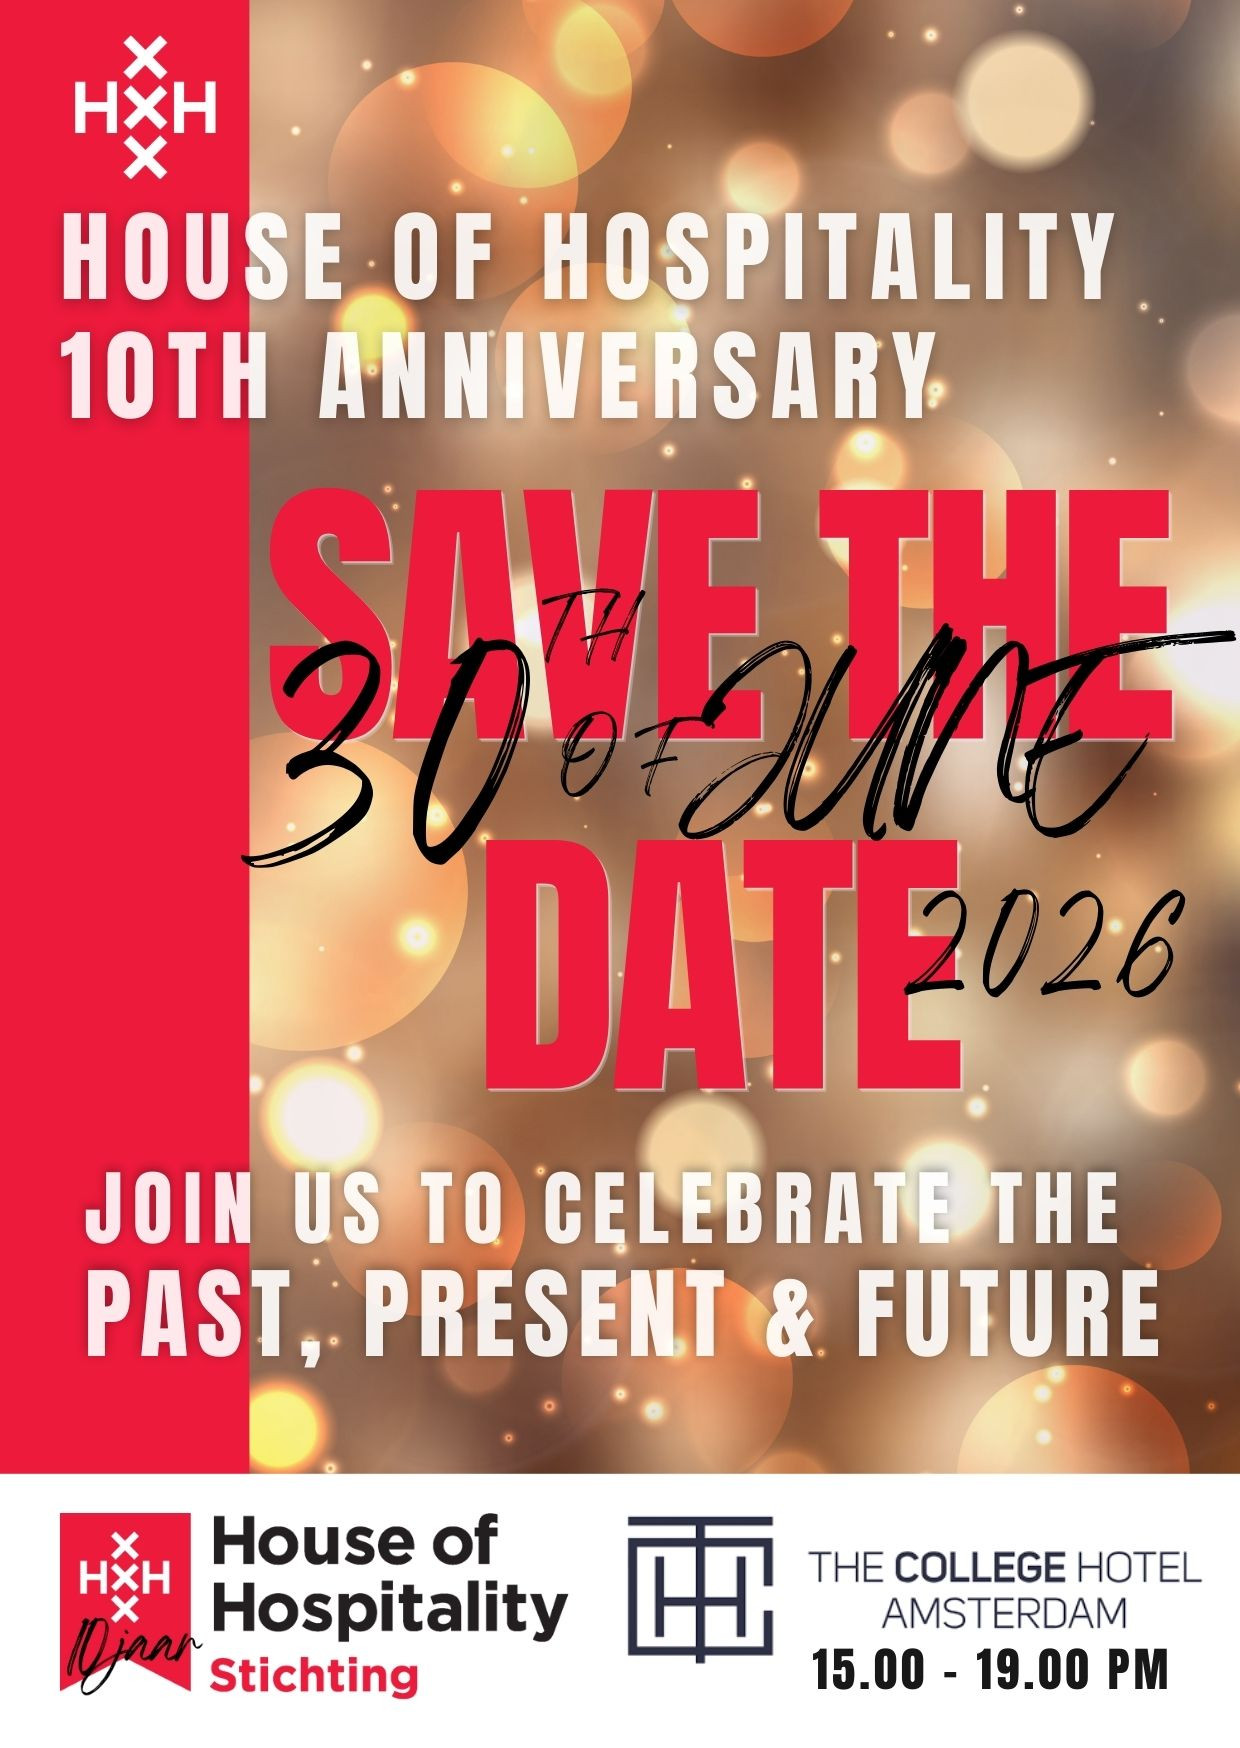
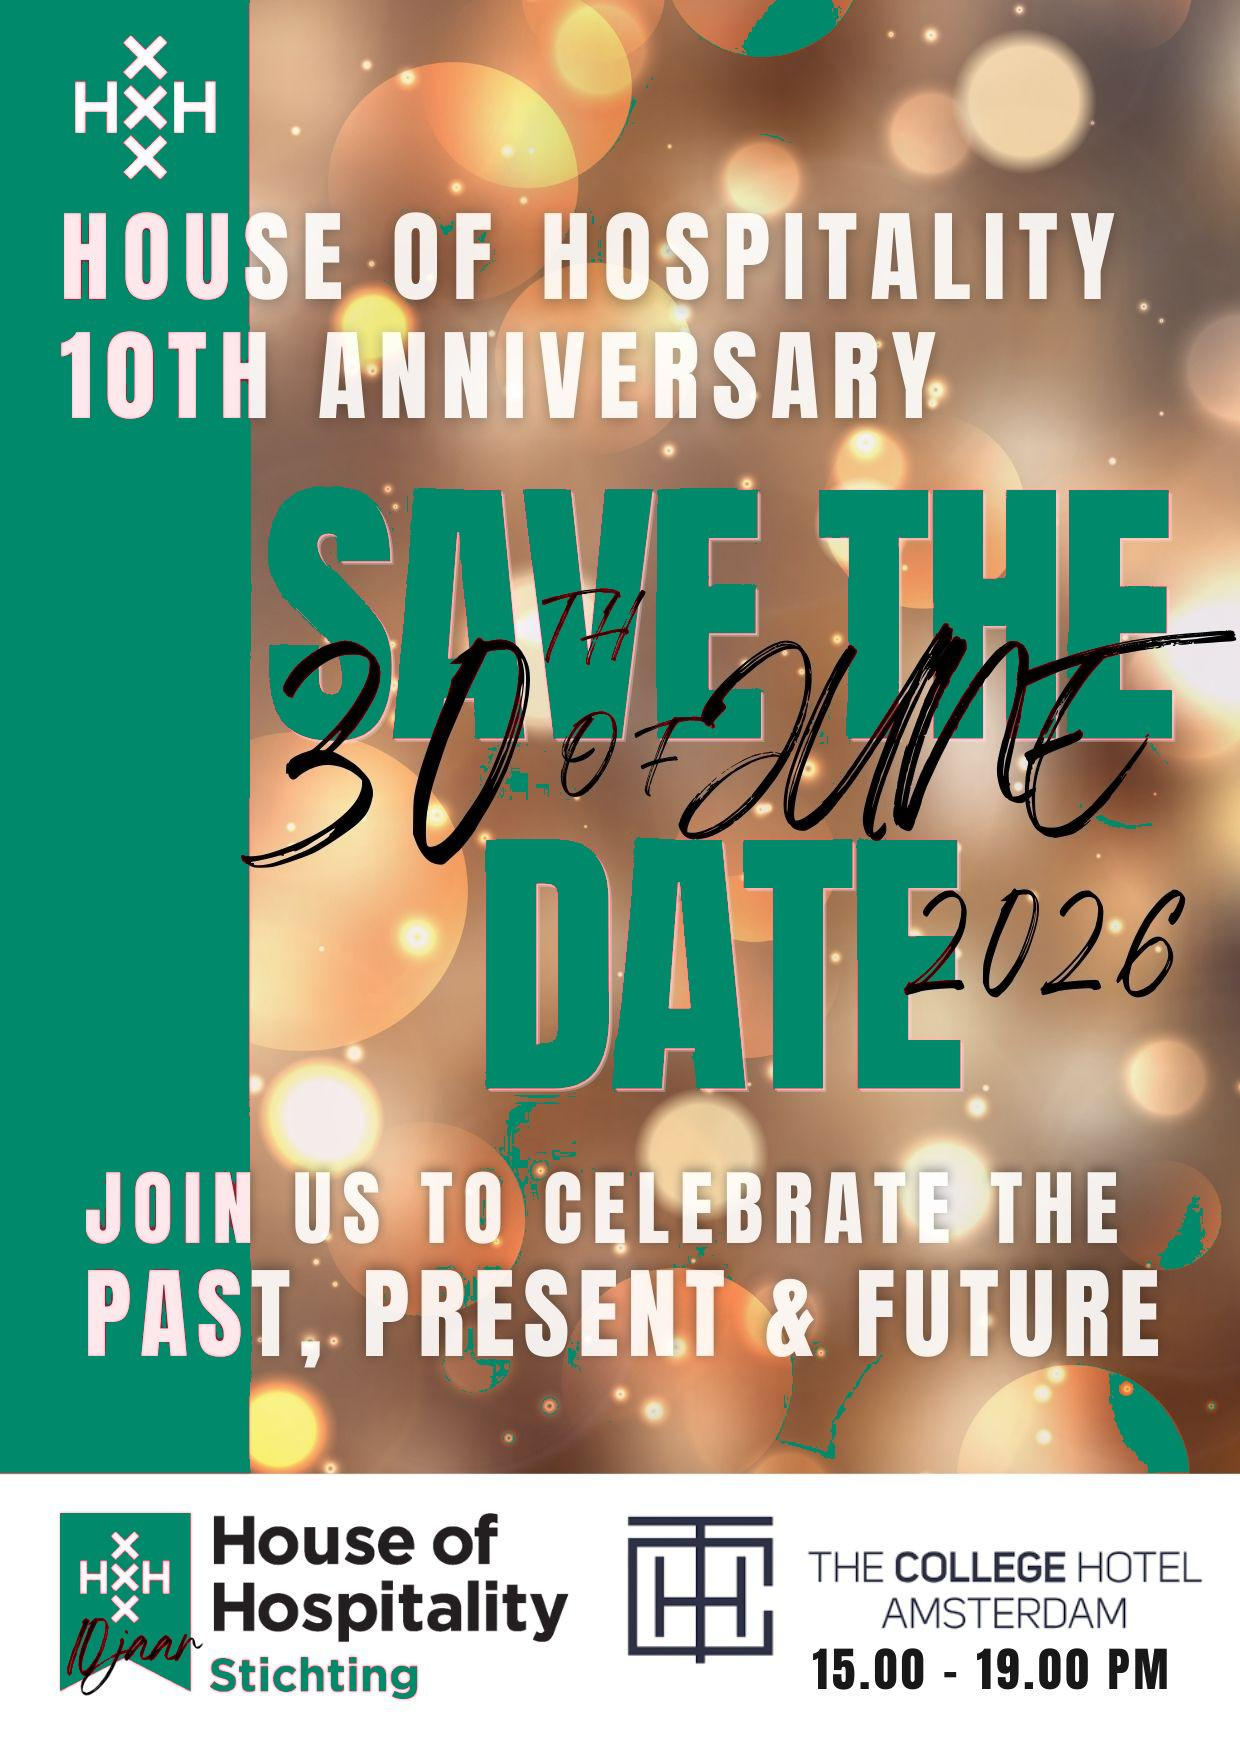
test

diff --git a/style.css b/style.css
@@ -4,11 +4,12 @@
   --text: #1e1e1e;
   --muted: #666666;
   --line: #e7e7e2;
-  --primary: #8a9a5b; /* olive-inspired */
-  --primary-dark: #6f7f47;
+  --primary: #00896b;
+  --primary-dark: #006f57;
   --shadow: 0 10px 30px rgba(0, 0, 0, 0.06);
   --radius: 18px;
   --container: 1200px;
+  --content-width: 900px; /* shared width for jubileum, video, flyer, and program */
 }
 
 * {
@@ -28,7 +29,8 @@ body {
   line-height: 1.6;
 }
 
-img {
+img,
+video {
   max-width: 100%;
   display: block;
 }
@@ -43,7 +45,9 @@ a {
   margin: 0 auto;
 }
 
-/* Header */
+/* =========================
+   HEADER
+========================= */
 .header {
   position: sticky;
   top: 0;
@@ -51,6 +55,8 @@ a {
   background: rgba(247, 247, 245, 0.9);
   backdrop-filter: blur(12px);
   border-bottom: 1px solid var(--line);
+  padding-top: 0.75rem;
+  padding-bottom: 0.75rem;
 }
 
 .nav {
@@ -63,25 +69,40 @@ a {
 .logo {
   display: flex;
   align-items: center;
-  gap: 0.75rem;
   font-weight: 700;
 }
 
-.logo-icon {
-  width: 42px;
-  height: 42px;
-  border-radius: 50%;
-  display: grid;
-  place-items: center;
-  background: var(--primary);
-  color: white;
-  font-weight: 800;
+.logo-img {
+  width: 240px;
+  height: auto;
+  border-radius: 8px;
+  object-fit: contain;
 }
 
-.logo-text {
-  font-size: 1rem;
+/* =========================
+   GENERIC SECTIONS
+========================= */
+.section:first-of-type {
+  margin-top: 2rem;
 }
 
+.video {
+  margin: 40px 0;
+}
+
+/* Shared content width */
+.newsletter-wrap,
+.program-preview-wrap,
+.video .img,
+.video .flyer {
+  max-width: var(--content-width);
+  width: 100%;
+  margin: 0 auto;
+}
+
+/* =========================
+   BUTTONS
+========================= */
 .btn {
   display: inline-flex;
   align-items: center;
@@ -104,8 +125,17 @@ a {
   transform: translateY(-2px);
 }
 
-.newsletter-wrap {
-  background: #fff;
+.aanmelden-btn {
+  display: inline-block;
+  margin-top: 20px;
+}
+
+/* =========================
+   CARD / CONTENT WRAPPERS
+========================= */
+.newsletter-wrap,
+.program-preview-wrap {
+  background: var(--white);
   border: 1px solid var(--line);
   border-radius: 28px;
   padding: 2rem;
@@ -117,6 +147,7 @@ a {
   justify-content: center;
   align-items: center;
   text-align: center;
+  margin-bottom: 2.5rem;
 }
 
 .centered-newsletter > div {
@@ -126,10 +157,9 @@ a {
   gap: 20px;
 }
 
-.jubileum-content {
-  max-width: 900px;
-}
-
+/* =========================
+   JUBILEUM CONTENT
+========================= */
 .jubileum-content h2 {
   margin-bottom: 20px;
 }
@@ -153,31 +183,77 @@ a {
 }
 
 .event-detail-card {
-  background: #ffffff;
+  background: linear-gradient(135deg, var(--primary), var(--primary-dark));
+  color: #ffffff;
   border-radius: 16px;
   padding: 24px 18px;
-  box-shadow: 0 8px 25px rgba(0, 0, 0, 0.06);
-  border: 1px solid rgba(0, 0, 0, 0.05);
+  box-shadow: 0 10px 30px rgba(0, 137, 107, 0.22);
+  border: 1px solid rgba(255, 255, 255, 0.08);
+}
+
+.event-detail-card h3,
+.event-detail-card p,
+.event-detail-card a {
+  color: #ffffff;
 }
 
 .event-detail-card h3 {
   margin-bottom: 10px;
   font-size: 1rem;
-  color: #0f172a;
 }
 
 .event-detail-card p {
   margin: 0;
-  color: #475569;
   font-size: 0.95rem;
 }
 
-.aanmelden-btn {
-  text-decoration: none;
-  display: inline-block;
-  margin-top: 20px;
+/* =========================
+   VIDEO & FLYER
+========================= */
+.video .img,
+.video .flyer {
+  display: flex;
+  justify-content: center;
 }
 
+video {
+  width: 100%;
+  height: auto;
+  border-radius: 20px;
+}
+
+.flyer img {
+  width: 100%;
+  height: auto;
+  border-radius: 20px;
+  margin: 0 auto;
+}
+
+/* =========================
+   PROGRAM PREVIEW
+========================= */
+.program-preview h3 {
+  margin-bottom: 1rem;
+  font-size: 1.2rem;
+  color: #1e1e1e;
+}
+
+.program-preview ul {
+  list-style: disc;
+  padding-left: 1.5rem;
+  color: #475569;
+  font-size: 0.95rem;
+  line-height: 1.6;
+  text-align: left;
+}
+
+.program-preview ul li {
+  margin-bottom: 0.5rem;
+}
+
+/* =========================
+   FOOTER
+========================= */
 .footer {
   padding: 4rem 0 2rem;
   background: #1f2419;
@@ -217,13 +293,38 @@ a {
   font-size: 0.9rem;
 }
 
+/* =========================
+   RESPONSIVE
+========================= */
 @media (max-width: 768px) {
+  .header {
+    padding-top: 0.5rem;
+    padding-bottom: 0.5rem;
+  }
+
+  .section:first-of-type {
+    margin-top: 1.5rem;
+  }
+
+  .logo-img {
+    width: 180px;
+  }
+
+  .newsletter-wrap,
+  .program-preview-wrap {
+    padding: 1.5rem;
+  }
+
   .event-details {
     grid-template-columns: 1fr;
   }
 
   .jubileum-content {
     text-align: center;
+  }
+
+  .program-preview ul {
+    padding-left: 1rem;
   }
 
   .footer-grid {
@@ -257,101 +358,4 @@ a {
     font-size: 0.85rem;
     color: rgba(244, 246, 239, 0.7);
   }
-}
-
-.program-preview-wrap {
-  background: #fff;
-  border-radius: 28px;
-  padding: 2rem;
-  box-shadow: 0 10px 30px rgba(0, 0, 0, 0.06);
-  max-width: 900px;
-  width: 100%;
-}
-
-.centered-newsletter {
-  display: flex;
-  justify-content: center;
-  align-items: center;
-  text-align: center;
-  margin-bottom: 2.5rem;
-}
-
-.program-preview h3 {
-  margin-bottom: 1rem;
-  font-size: 1.2rem;
-  color: #1e1e1e;
-}
-
-.program-preview ul {
-  list-style: disc;
-  padding-left: 1.5rem;
-  color: #475569;
-  font-size: 0.95rem;
-  line-height: 1.6;
-  text-align: left;
-}
-
-.program-preview ul li {
-  margin-bottom: 0.5rem;
-}
-
-@media (max-width: 768px) {
-  .program-preview-wrap {
-    padding: 1.5rem;
-  }
-
-  .program-preview ul {
-    padding-left: 1rem;
-  }
-}
-
-.header {
-  padding-top: 0.75rem;
-  padding-bottom: 0.75rem;
-}
-
-.section:first-of-type {
-  margin-top: 2rem;
-}
-
-@media (max-width: 768px) {
-  .header {
-    padding-top: 0.5rem;
-    padding-bottom: 0.5rem;
-  }
-
-  .section:first-of-type {
-    margin-top: 1.5rem;
-  }
-}
-
-.logo-img {
-  width: 240px;
-  height: auto;
-  display: block;
-  border-radius: 8px;
-  object-fit: contain;
-}
-
-video {
-  width: 50%;
-  height: auto;
-  border-radius: 20px;
-}
-
-.img {
-  display: flex;
-  width: 100%;
-  justify-content: center;
-}
-
-.video {
-  margin-top: 40px;
-  margin-bottom: 40px;
-}
-
-.flyer img{
-  margin: 0 auto;
-  border-radius: 20px;
-  max-width: 50%;
 }

diff --git a/index.html b/index.html
@@ -12,9 +12,9 @@
 <body>
   <!-- Header -->
   <header class="header">
-    <div class="container nav">
+    <div class="nav">
         <a href="#" class="logo">
-          <img src="logohoh.png" alt="House of Hospitality Logo" class="logo-img" />
+          <img src="logo.png" alt="House of Hospitality Logo" class="logo-img" />
         </a>
       <nav class="nav-menu" id="navMenu">
       </nav>
